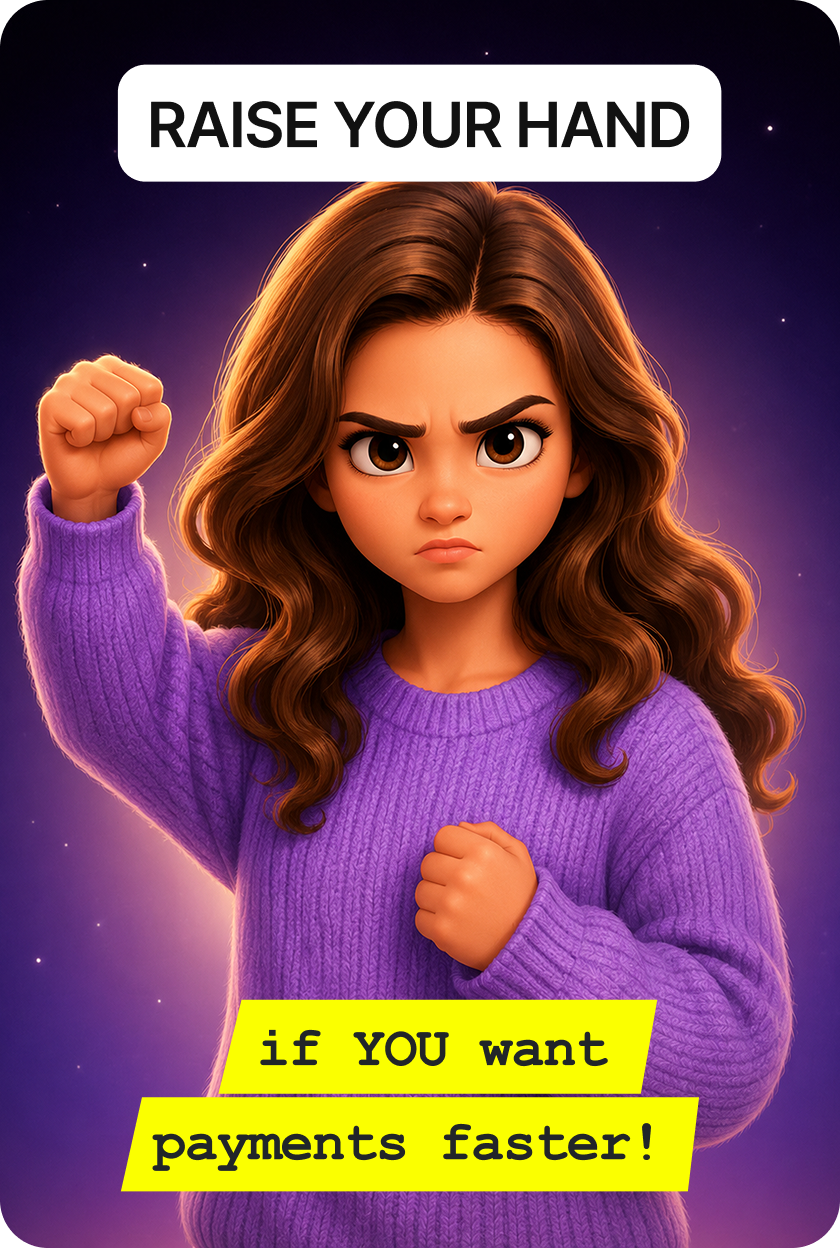
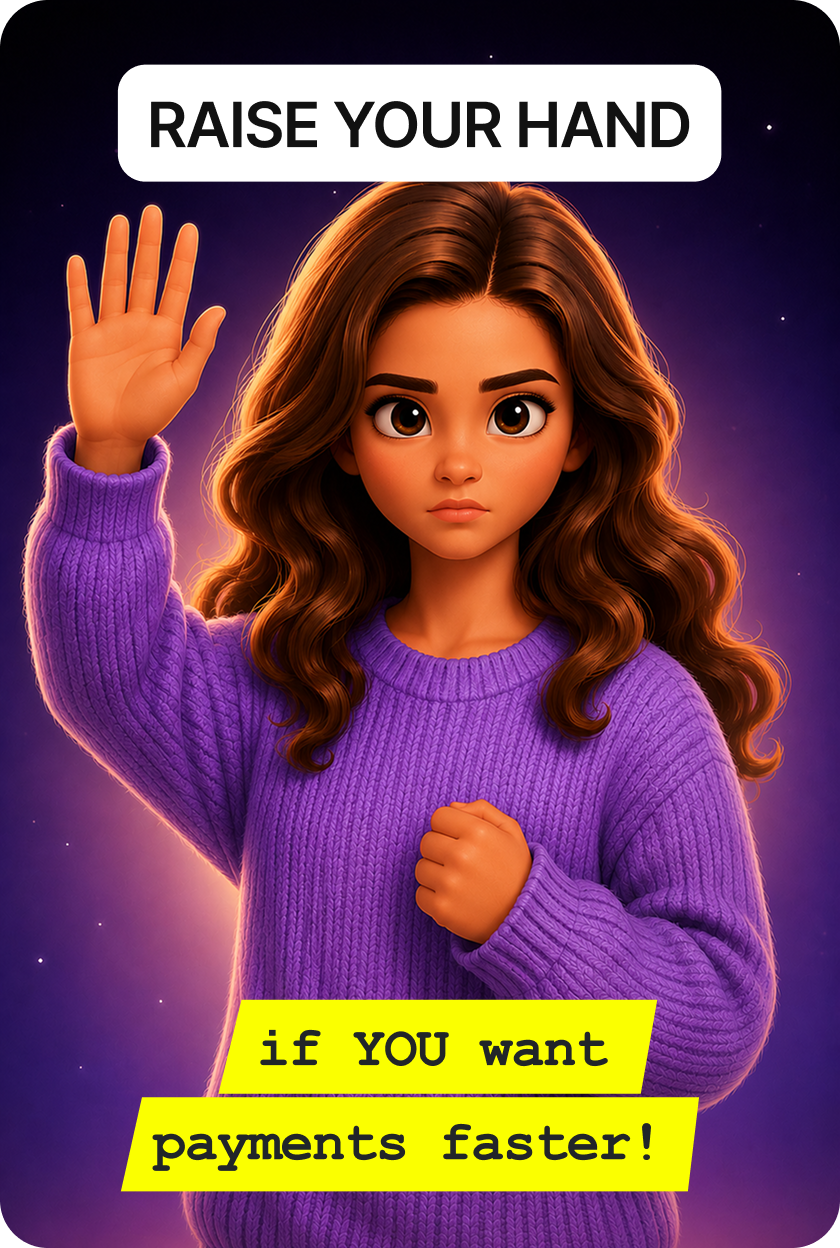
tweak: refresh earn story-1 image and polish hero/promo spacing
- Replace story-1 image (en + hi-Latn) on /creator/earn
- Tighten hero title line-height from 2 to 1.8
- Reduce gap between check icon and label in PromoSignupCard

diff --git a/components/creator/earn/HeroSection.tsx b/components/creator/earn/HeroSection.tsx
@@ -34,7 +34,7 @@ export default function HeroSection() {
         {/* Headline — plain text leading line + yellow-highlighted script tail.
             i18nKey "hero.title" uses <0/> for the mobile line break and
             <1>...</1> to mark the portion that should get the highlight. */}
-        <h1 className="text-[25px] font-bold text-white text-center leading-[2] tracking-[-0.04em] mb-1.5 max-w-[640px] mx-auto">
+        <h1 className="text-[25px] font-bold text-white text-center leading-[1.8] tracking-[-0.04em] mb-1.5 max-w-[640px] mx-auto">
           <Trans
             i18nKey="hero.title"
             t={t}

diff --git a/components/creator/promo/PromoSignupCard.tsx b/components/creator/promo/PromoSignupCard.tsx
@@ -398,7 +398,7 @@ export default function PromoSignupCard({
       ) : !otpVisible ? (
         <ul className="mt-1 px-1 flex items-center justify-center text-[11px] font-normal text-white whitespace-nowrap gap-x-3.5">
           {checks.map((label, i) => (
-            <li key={i} className="flex items-center gap-1">
+            <li key={i} className="flex items-center gap-0.5">
               <span aria-hidden="true">✅</span>
               <span>{label}</span>
             </li>